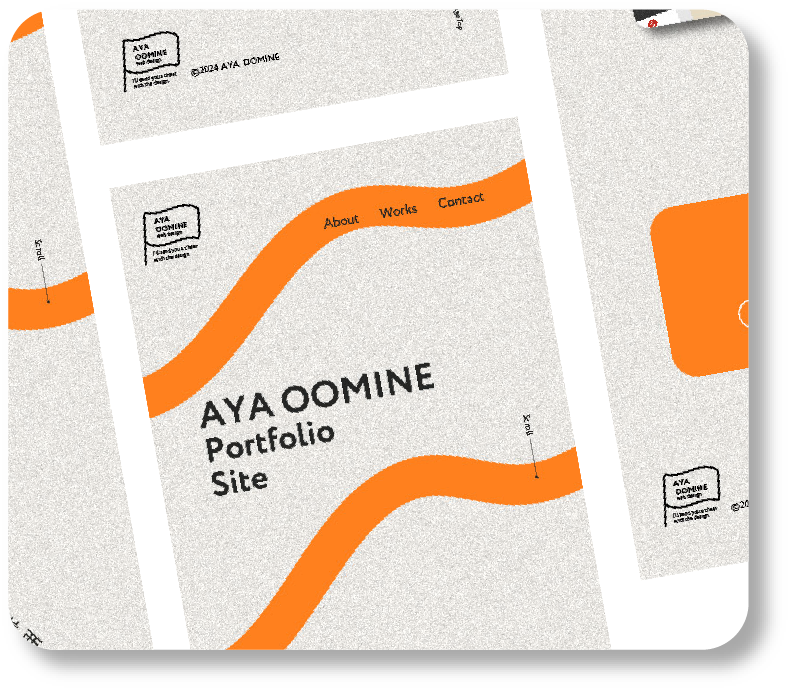
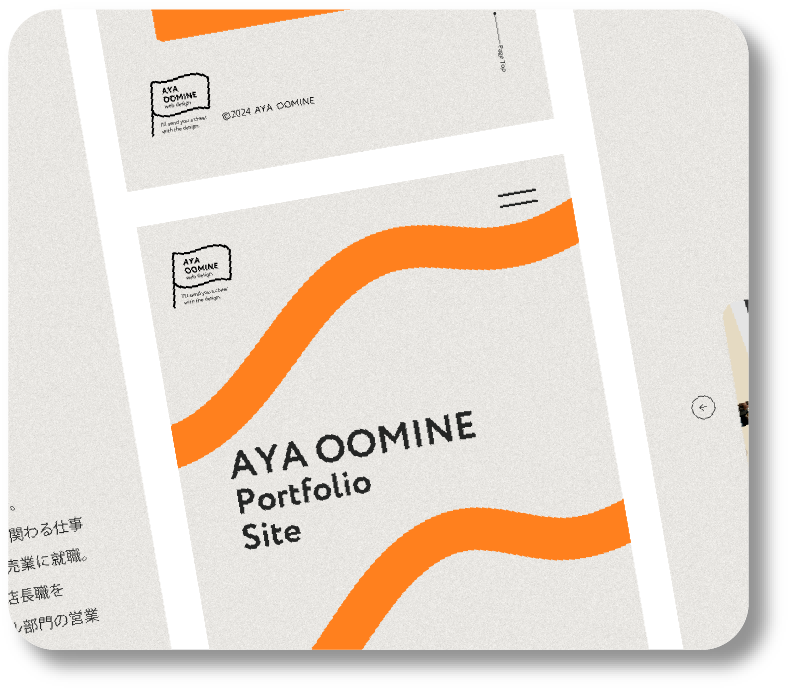
oomine_portfolio

diff --git a/works/works6.html b/works/works6.html
@@ -57,9 +57,9 @@
       </div>
     </header>
     <section id="works_area">
-      <h2>Banner / TRRRRIP.</h2>
+      <h2>Banner / Tamahana</h2>
       <div class="banner">
-        <img src="../img/3x/TRRRRIP@2x.png" alt="TRRRRIPバナー" />
+        <img src="../img/3x/tamahana 2.png" alt="Tamahanaバナー" />
       </div>
     </section>
 
@@ -67,8 +67,9 @@
       <div class="workstext_inner">
         <h3>［デザインで意識したところ］</h3>
         <p class="works_inner_text">
-          アウトドアに特化した旅行サイトの立ち上げで
-          自然を通して非日常を体験してもらうことがイメージできるようスケールの大きい自然の写真をメインに使用しました。
+          現在1.4万人フォロワーからオンライン購入へ繋げ、Tamahana化粧品の認知度を高めるため。
+          ブランドの強化項目事項として、「真珠美容成分配合」のキーポイントを印象付けるために真珠の要素を挿入する、あしらいも真珠のオーロラにすることでダイレクトに真珠が売りの化粧品なんだと理解してもらいやすく作成しました。
+          美白美容液のバナーなので、高級感を出すために明朝体でコピーを配置。全体的に光が溢れるような眩しい輝きを表現しました。
         </p>
       </div>
 
@@ -77,22 +78,24 @@
           <li>
             <h3 class="item">［ターゲット］</h3>
             <p class="text_list">
-              自然の中で非日常を体験できる旅行に出かけたい全ての方
+              40代以上の女性、美容に興味がある。美白を意識している方
             </p>
           </li>
           <li>
             <h3 class="item">［目的］</h3>
             <p class="text_list">
-              アウトドアに特化した新しい旅行アプリのダウンロード獲得
+              真珠成分配合の認知強化<br>
+              オンラインサイトへの流入数アップ、リピーター獲得<br>
+              宝飾事業以外の新たな販路を見出すため
             </p>
           </li>
           <li>
             <h3 class="item">［制作期間・範囲］</h3>
-            <p class="text_list">１時間/デザイン（トレース）</p>
+            <p class="text_list">3時間/デザイン</p>
           </li>
           <li>
             <h3 class="item">［使用ツール］</h3>
-            <p class="text_list">Illustrator</p>
+            <p class="text_list">Photoshop/Illustrator</p>
           </li>
         </ul>
       </div>

diff --git a/css/style.css b/css/style.css
@@ -78,6 +78,13 @@
   margin: 0 auto;
   height: auto;
 }
+.writing-text-second{
+  display: block;
+  width: 100%;
+  margin: 0 auto;
+  margin-top: -13%;
+  height: auto;
+}
 .writing {
   margin: 0 auto;
 }
@@ -133,9 +140,10 @@ a:hover {
   display: none;
 }
 @media screen and (max-width: 1080px) {
-  .sp-br 
+  .sp-br {
     display: block;
   }
+}
 
 @media screen and (max-width: 767px) {
   .sp-br {
@@ -153,12 +161,13 @@ position: relative;
   right: 30px;
 }
 
+
 /*Scrollテキストの描写*/
 .scrolldown span {
   /*描画位置*/
   position: absolute;
   left: -11px;
-  bottom: -75px;
+  bottom: -225px;
   /*テキストの形状*/
   color: #252625;
   font-size: 18px;
@@ -189,10 +198,10 @@ position: relative;
 /*下からの距離が変化して丸の全体が上から下に動く*/
 @keyframes circlemove {
   0% {
-    bottom: 50px;
+    bottom: -155px;
   }
   100% {
-    bottom: -5px;
+    bottom: -95px;
   }
 }
 
@@ -217,7 +226,7 @@ position: relative;
   content: "";
   /*描画位置*/
   position: absolute;
-  bottom: 0;
+  bottom: -153px;
   left: 0;
   /*線の形状*/
   width: 1.5px;
@@ -368,7 +377,7 @@ main-visual
   max-width: 430px;
   position: absolute;
   content: "";
-  top: -100px;
+  top: -110px;
   left: 60px;
 }
 .AYAOOMINE__img {
@@ -379,7 +388,7 @@ main-visual
   width: 56.8%;
   max-width: 780px;
   position: absolute;
-  top: 110px;
+  top: 90px;
   left: 200px;
 }
 
@@ -1124,9 +1133,12 @@ footer ul {
     top: -31px;
     margin-left: -195px;
   }
+  .name{
+    font-size: 40px;
+  }
   .title{
     width: 395px;
-    font-size: 40px;
+    font-size: 35px;
   }
   #thanks p{
     font-size: 69%;
@@ -1163,6 +1175,7 @@ footer ul {
     padding: 105px 20px 0;
     margin: 0 auto;
   }
+
 }
 
 /* ▼ 767px以下 */

diff --git a/index.html b/index.html
@@ -98,7 +98,7 @@
             />
           </div></div>
           <div class="writing">
-            <svg class="writing-text" viewBox="0 0 1280.14 513.79">
+            <svg class="writing-text-second" viewBox="0 0 1280.14 513.79">
               <mask id="mask-stroke">
                 <path
                   id="mask"
@@ -167,7 +167,7 @@
           <a href="./works/works2.html">
             <img class="works" src="./img/first/works2@2x.png" alt="works2" />
             <p class="works_text">Website</p>
-            <p class="works_text">AYAOOMINE Portforio Site</p>
+            <p class="works_text">AYAOOMINE Portfolio Site</p>
           </a>
         </li>
         <li>
@@ -198,9 +198,9 @@
         </li>
         <li>
           <a href="./works/works6.html">
-            <img class="works" src="./img/first/torippp.@2x.png" alt="works6" />
+            <img class="works" src="./img/first/tamanhana@2x.png" alt="works6" />
             <p class="works_text">Banner</p>
-            <p class="works_text">TRRRRIP.</p>
+            <p class="works_text">Tamahana</p>
           </a>
         </li>
       </ul>
@@ -228,6 +228,7 @@
       </div>
     </section>
 
+    <!-- ページトップボタン -->
     <div class="scroll-down-anime">
       <div class="scrolldown">
         <a href="#header"><span>Page Top</span></a>

diff --git a/js/script.js b/js/script.js
@@ -129,6 +129,26 @@ $(function () {
   });
 });
 
+$(function() {
+  var topBtn = $('.scrolldown');	
+  topBtn.hide();
+  //スクロールが500に達したらボタン表示
+  $(window).scroll(function () {
+    if ($(this).scrollTop() > 500) {
+      topBtn.fadeIn();
+    } else {
+      topBtn.fadeOut();
+    }
+  });
+  //スクロールしてトップ
+    topBtn.click(function () {
+    $('body,html').animate({
+      scrollTop: 0
+    }, 500);
+    return false;
+    });
+});
+
 // ===== フェードイン(AOS.js) =====
 AOS.init();
 

diff --git a/contact.html b/contact.html
@@ -80,7 +80,7 @@
         class="c-form"
         action="https://docs.google.com/forms/u/0/d/e/1FAIpQLScW2YJ2H09xFNTuGsY3WmDEAiE6TsPkJajXvQc0cK3ZJCt_Pg/formResponse"
       method="post" target="hidden_iframe" onsubmit="submitted=true;"> 
-      <!-- ▲送信ボタンとサンクスページを繋げる -->
+      <!-- 送信ボタンとサンクスページを繋げる -->
         <div class="c-form__item">
           <label class="c-form__label" for="field-name"
             >Name[氏名]</label

diff --git a/works/works2.html b/works/works2.html
@@ -57,10 +57,10 @@
       </div>
     </header>
     <section id="works_area">
-      <h2>Website / AYA OOMINEポートフォリオ</h2>
+      <h2>Website / AYA OOMINE Portfolio Site</h2>
       <div class="pc_img">
         <img
-          src="../img/3x/oommine_pc@2x.png"
+          src="../img/3x/ oomine_pc@2x.png"
           alt="大嶺亜矢ポートフォリオPC画像"
         />
       </div>
